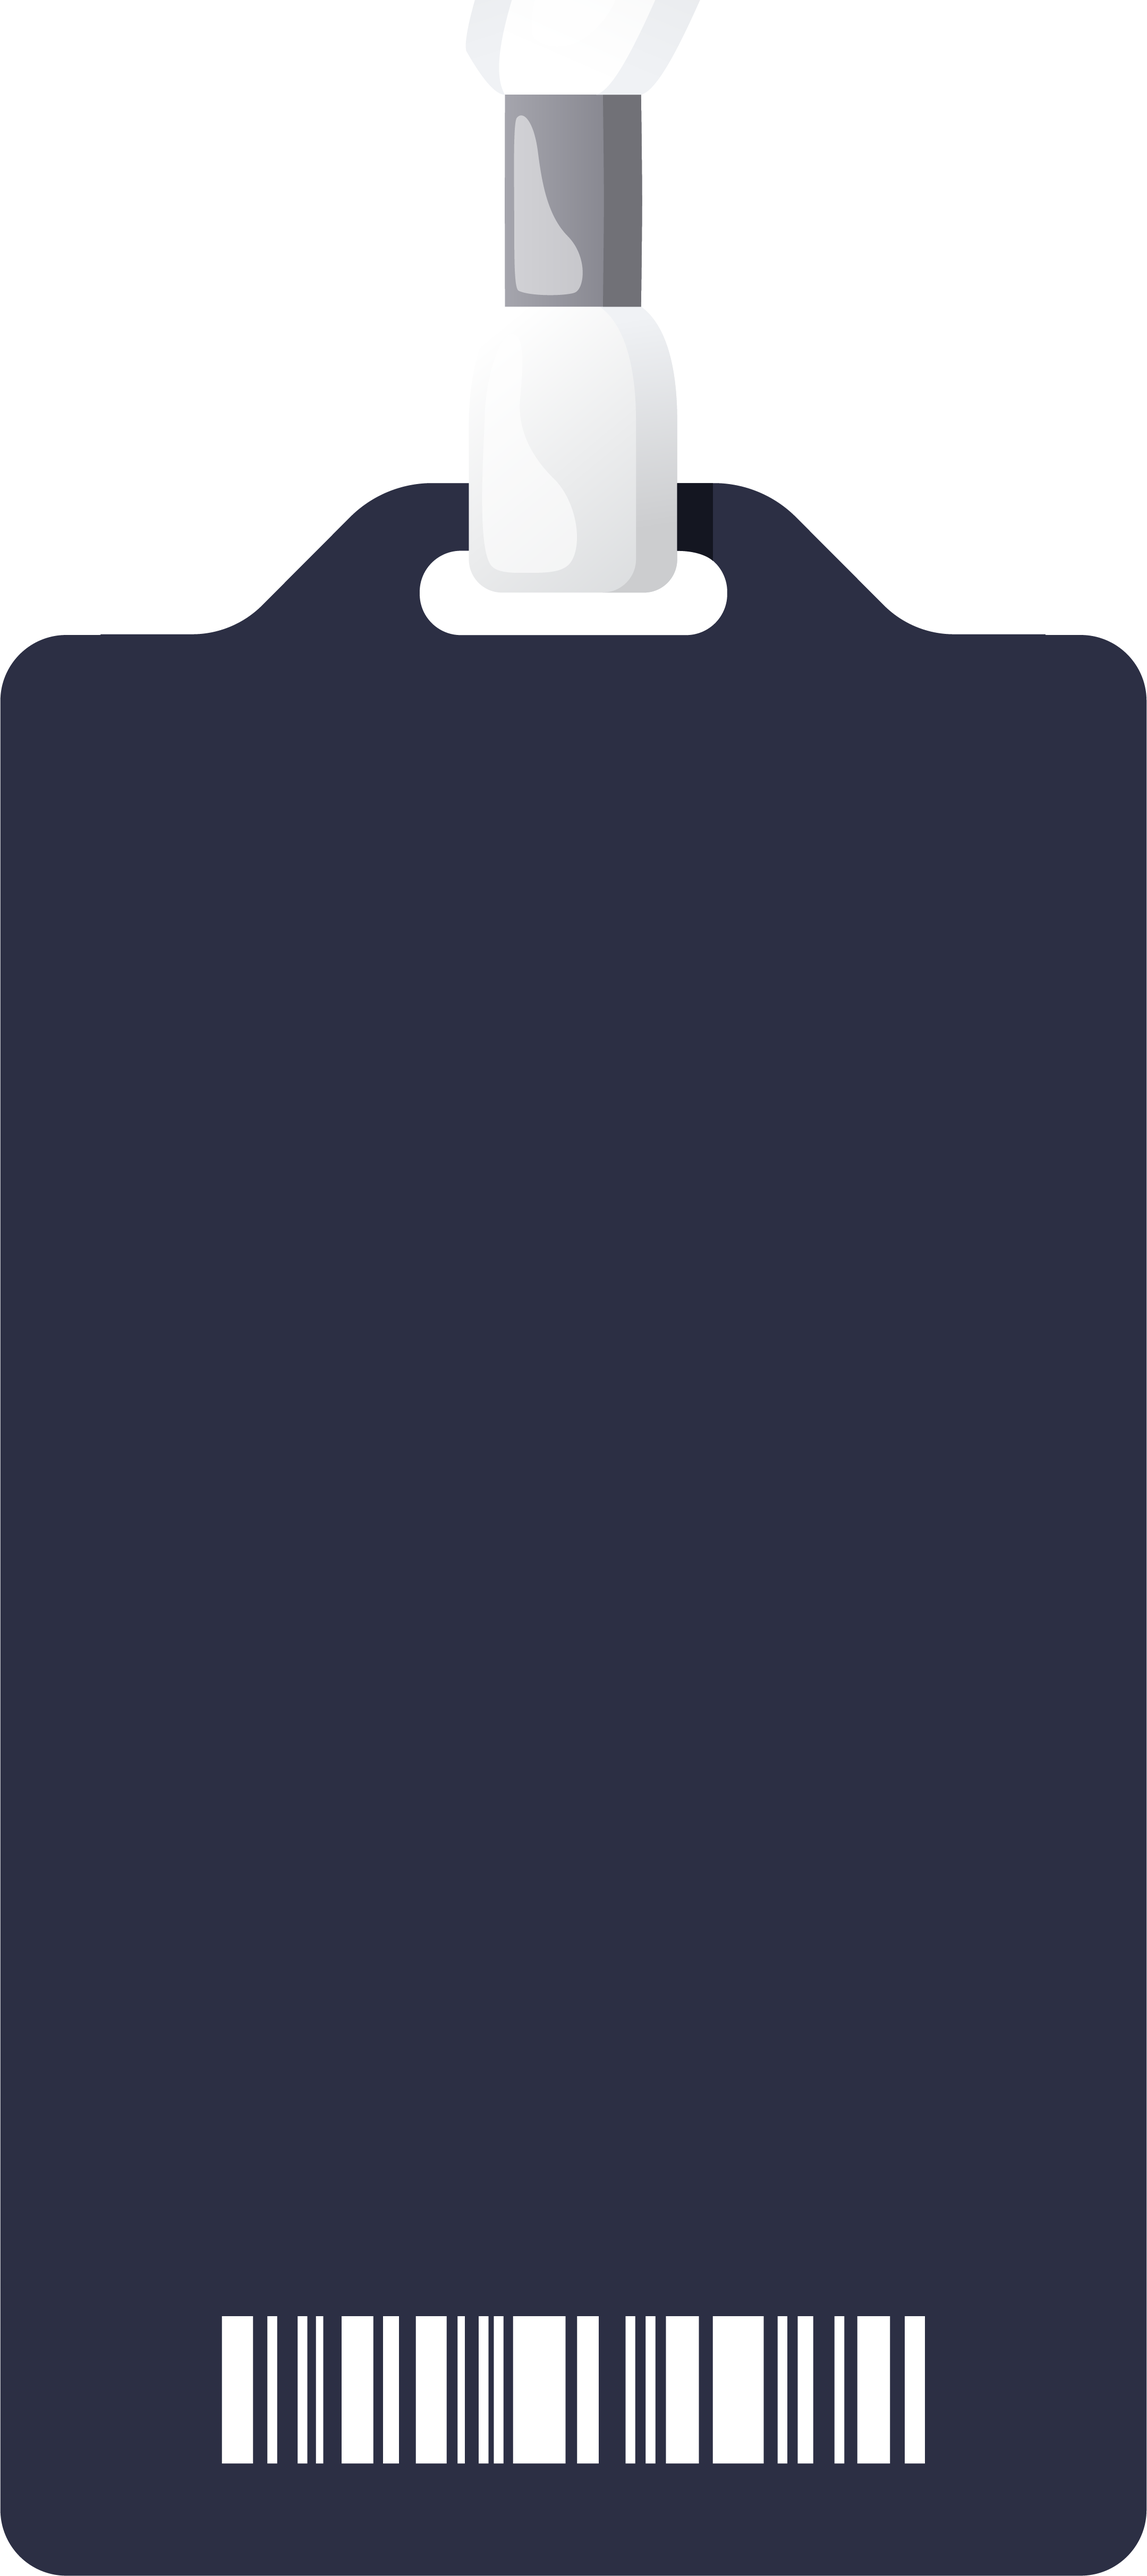
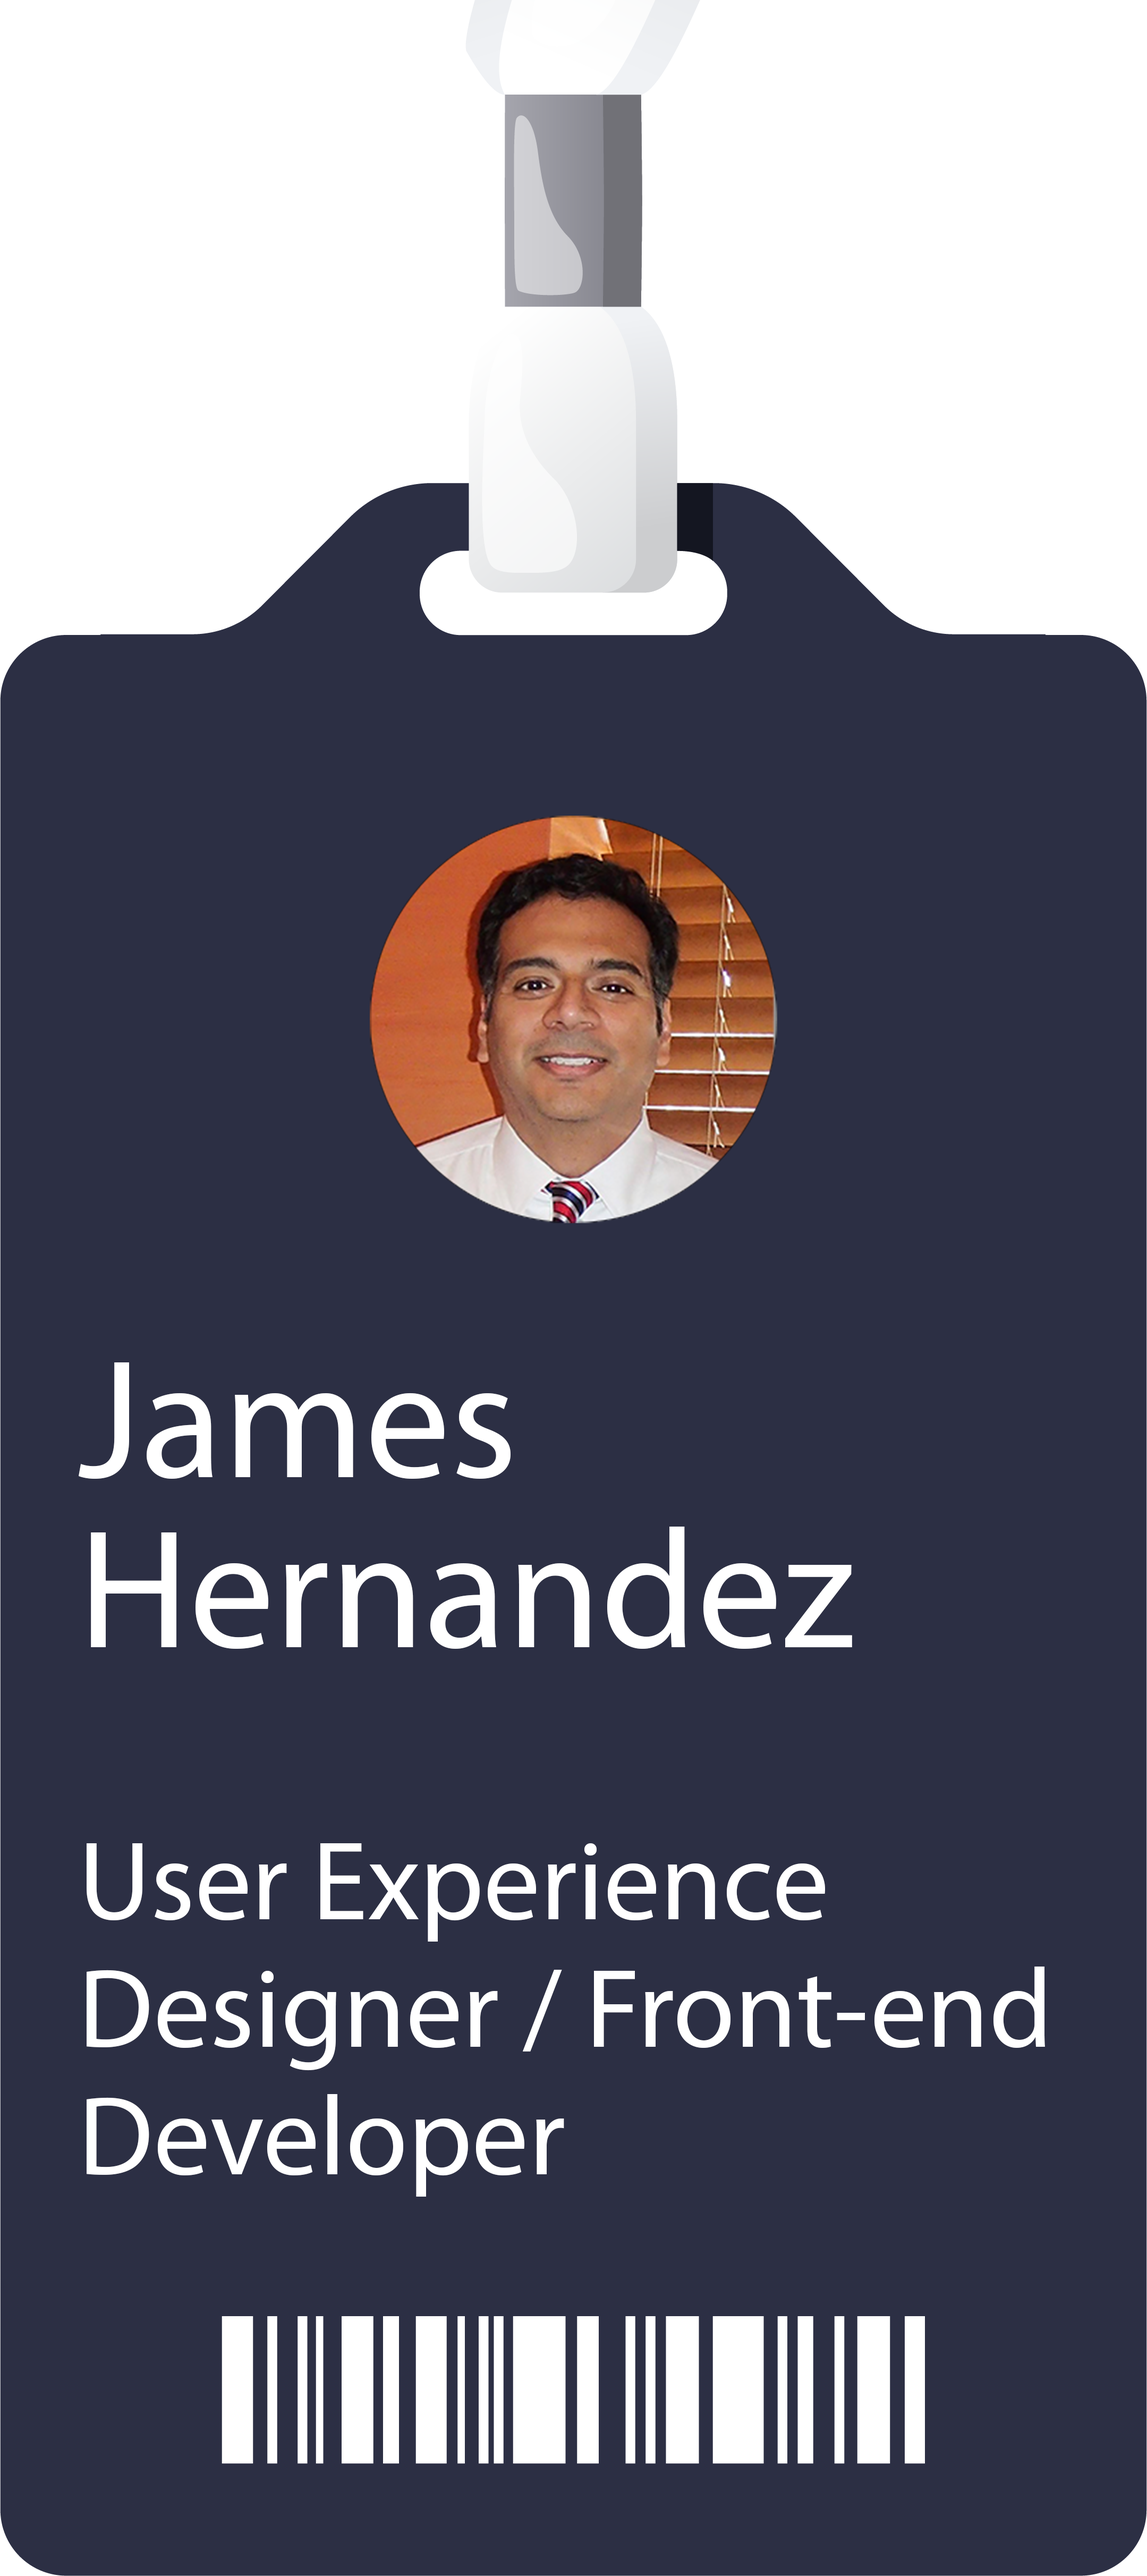
added photo to nametag

diff --git a/src/pages/Index/TagBit/TagBit.tsx b/src/pages/Index/TagBit/TagBit.tsx
@@ -33,7 +33,7 @@ const TagBit = () => {
           <GatsbyImage
             className="nameTagImg"
             image={getImage(data.nameTagImg)}
-            alt="Name Tag"
+            alt="James Hernandez, User Experience Designer and Front-end Developer"
           />
         </div>
         <div className="crate__second d-flex text-light justify-content-center align-items-center">
